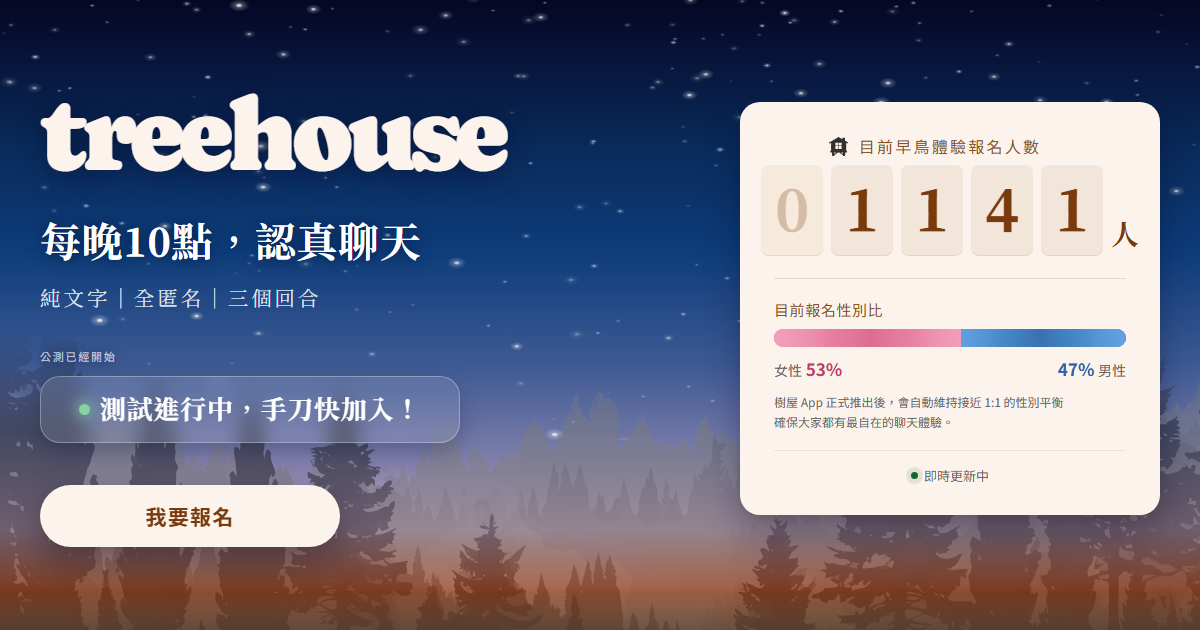
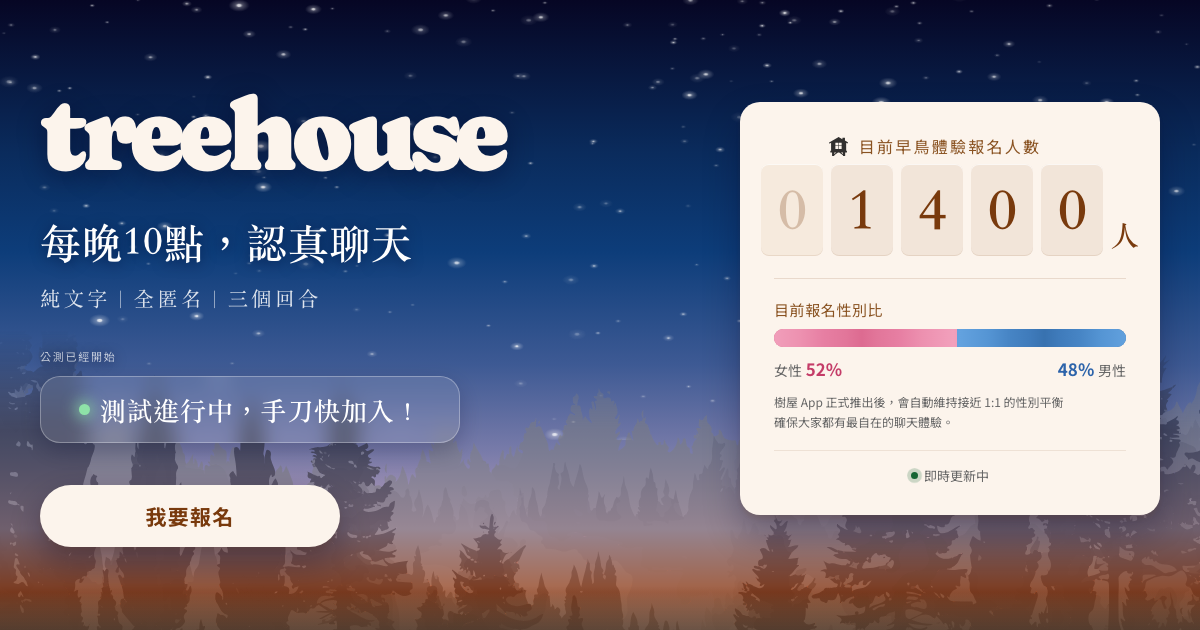
chore(join): refresh share card at 1400 signups
報名人數 01400（截圖前確認 __JOIN_DEBUG__.lastGoodFetch.sheet=1400、lastError
空，讀到的是 Sheet 即時值而不是後備值）、性別比 52/48。baseValue 由腳本自動
對齊 1400，index.html 的預渲染數字一併同步。

截圖時踩到 browse 的 HTTP 快取：同一個 origin 上 goto 會從 disk cache 取回舊的
index.html / join.js，restart 與 --force-restart 都沒清掉，結果卡片畫的是舊碼
（性別比 51/49，正好等於 49-53 K=5 那組舊參數的輸出，已用 node 重跑演算法比對
確認）。換一個 port 起第二個 static server（等於新 origin、必然空快取）後，
畫面與現行設定的 52 一致，才是這張。

Claude-Session: https://claude.ai/code/session_01R1593mnu1Chs8RTiga8rG2

diff --git a/join/index.html b/join/index.html
@@ -102,8 +102,8 @@
             <span><img class="signboard__mark" src="/assets/img/house-mark.svg" alt="" width="15" height="15">目前早鳥體驗報名人數</span>
           </p>
           <p class="signboard__count">
-            <span class="odo" id="signupNumber" role="img" aria-label="1141" data-value="1141">
-              <b class="odo__d odo__d--lead">0</b><b class="odo__d">1</b><b class="odo__d">1</b><b class="odo__d">4</b><b class="odo__d">1</b>
+            <span class="odo" id="signupNumber" role="img" aria-label="1400" data-value="1400">
+              <b class="odo__d odo__d--lead">0</b><b class="odo__d">1</b><b class="odo__d">4</b><b class="odo__d">0</b><b class="odo__d">0</b>
             </span>
             <span class="signboard__unit">人</span>
           </p>

diff --git a/assets/join.config.js b/assets/join.config.js
@@ -20,7 +20,7 @@ window.JOIN_CONFIG = {
     // 明顯是錯的。現在改成每次跑 tools/build-og-image.sh 重截分享卡時自動對齊當下真值
     // （腳本會讀 __JOIN_DEBUG__.lastGoodFetch.sheet），所以這裡通常不用手改。
     // 要調整起算人數仍然是改 Sheet 的 B2。
-    baseValue: 1141,
+    baseValue: 1400,
     round: "floor",             // "floor" 無條件捨去到整數；"none" 不處理（Sheet 應該本來就是整數）
 
     // ⚠ 這份試算表會被公開讀取（Google 的 gviz 端點要求整份表可公開存取）。
